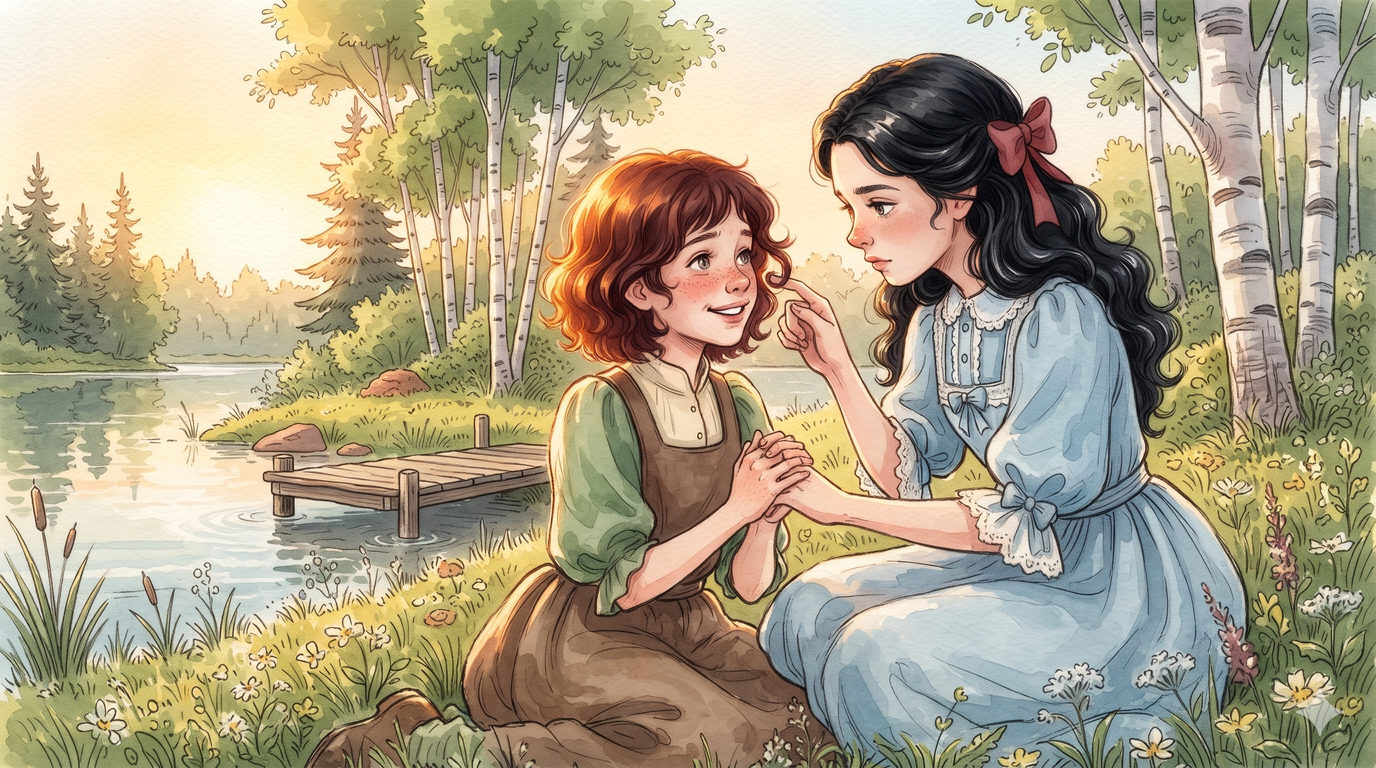
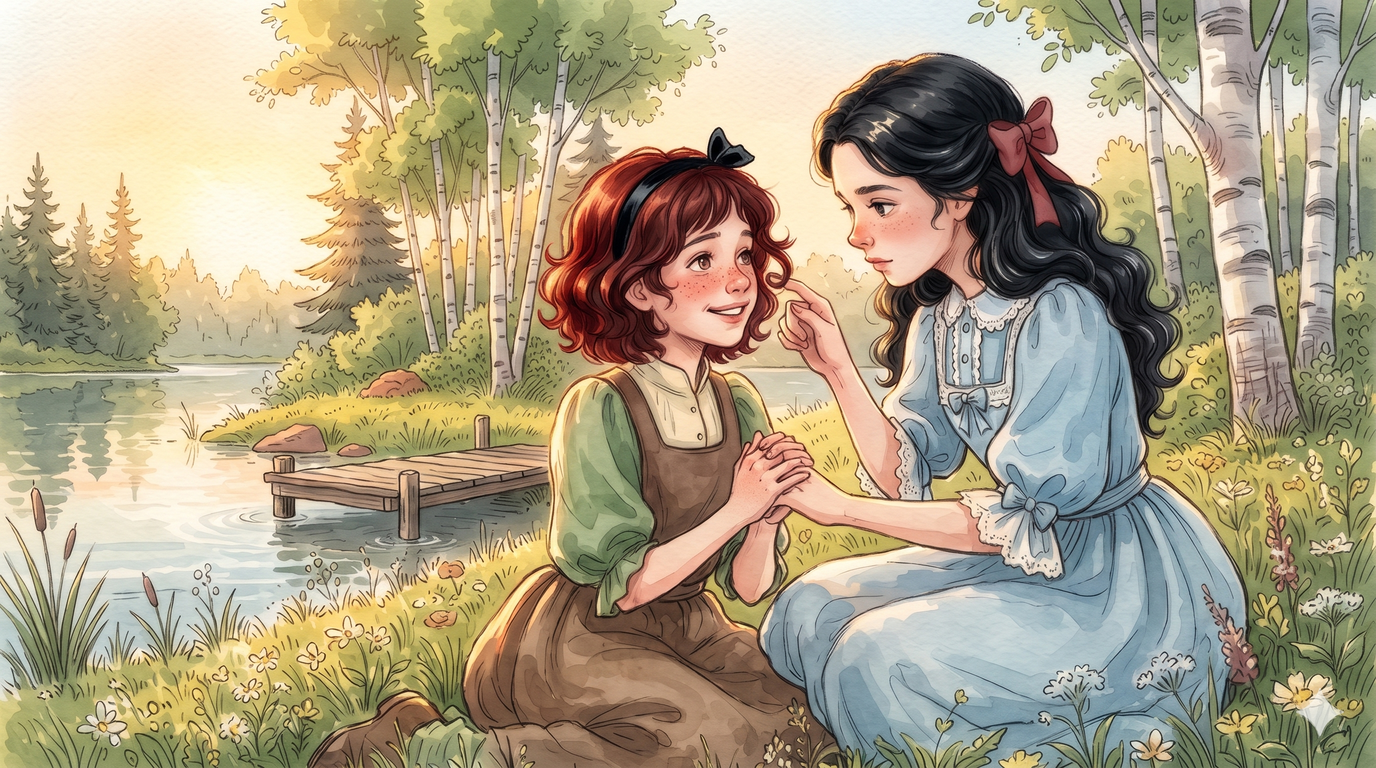
9장 숨은 장면 3장 앤 머리 원작대로(짙은 적갈색 곱슬+검은 리본) 고침, 테스트 윈도우 경로로 정리

diff --git a/sw.js b/sw.js
@@ -1,5 +1,5 @@
 /* 빨강 머리 앤 오프라인 지원: 인터넷이 되면 항상 최신 판을 먼저 받고, 인터넷이 없으면 저장해 둔 판으로 실행합니다. */
-const CACHE = "anne-vn-v79";
+const CACHE = "anne-vn-v80";
 const FILES = ["./", "./index.html", "./manifest.webmanifest", "./icon-192.png", "./icon-512.png", "./icon-maskable-512.png", "./apple-touch-icon.png"];
 self.addEventListener("install", e => {
   e.waitUntil(caches.open(CACHE).then(c => c.addAll(FILES.map(f => new Request(f, {cache: "reload"})))).then(() => self.skipWaiting()));

diff --git a/source/tests/run3.py b/source/tests/run3.py
@@ -1,7 +1,10 @@
+import sys, pathlib; sys.path.insert(0, str(pathlib.Path(__file__).resolve().parents[1] / 'tools'))
+from paths import CHROME, HTML, WORK, uri
+OUT = str(WORK / 'test4') + '/'
 import asyncio, json, sys, os
 CI=int(os.environ.get("CI","2"))
 from playwright.async_api import async_playwright
-F=sys.argv[1] if len(sys.argv)>1 else "file:///home/claude/anne_visual_novel.html"
+F=sys.argv[1] if len(sys.argv)>1 else "http://localhost:8765/index.html"
 SNAP={"canon":4,"imag":3,"hearts":{"matthew":3,"marilla":3,"lynde":2,"diana":3,"barry":1,"gilbert":1},"met":{"matthew":True,"marilla":True,"lynde":True},
  "items":["carpetbag","auburn","narcissi","poem","lock"],"flags":{"castle":True,"poem":True,"quiet":True,"wreath":True,"vow":True,"missSchool":True,"mailbox":True,"factsOnly":True},"names":{"avenue":"기쁨의 하얀 길","pond":"반짝이는 호수","advice":"잘했어","spring":"드라이어드의 샘","together":"소꿉놀이 집 짓기"},"hist":[]}
 async def play(pg, route, tag, shots):
@@ -20,12 +23,12 @@ async def play(pg, route, tag, shots):
     bg = await pg.evaluate("window.__anne.state().bg")
     if shots and bg not in seen:
       seen.add(bg); await pg.wait_for_timeout(1300); await pg.click(".dlg-head"); await pg.wait_for_timeout(300)
-      await pg.screenshot(path=f"/home/claude/test4/c{CI}_{tag}_{bg}.png")
+      await pg.screenshot(path=OUT+f"c{CI}_{tag}_{bg}.png")
     await pg.click(".dlg-head"); await pg.wait_for_timeout(30)
   return await pg.evaluate("window.__anne.state()")
 async def main():
   async with async_playwright() as p:
-    b=await p.chromium.launch(executable_path="/usr/bin/google-chrome")
+    b=await p.chromium.launch(executable_path=CHROME)
     pg=await b.new_page(viewport={"width":1280,"height":800}); errs=[]
     pg.on("pageerror",lambda e: errs.append(str(e)))
     await pg.goto(F); await pg.wait_for_timeout(600)
@@ -34,7 +37,7 @@ async def main():
       st=await play(pg,r,r,r=="imag")
       print(r, st["ending"], st["tally"] if "tally" in st else "", st["items"], st["hearts"], st["names"])
       if r=="bal":
-        await pg.screenshot(path="/home/claude/test4/report.png")
+        await pg.screenshot(path=OUT+"report.png")
     # unresolved templates / missing book ids
     bad = await pg.evaluate("""(()=>{const out=[];const ch=CHAPTERS[%d];const ids=new Set(BOOK[ch.key].paras.map(p=>p[0]));
       ch.nodes.forEach(n=>{(n.bk||[]).forEach(b=>{if(!ids.has(b))out.push('bk '+b)});});return out})()""" % CI)

diff --git a/source/tests/mid_report.py b/source/tests/mid_report.py
@@ -1,3 +1,6 @@
+import sys, pathlib; sys.path.insert(0, str(pathlib.Path(__file__).resolve().parents[1] / 'tools'))
+from paths import CHROME, HTML, WORK, uri
+OUT = str(WORK / 'test4') + '/'
 import asyncio
 from playwright.async_api import async_playwright
 SNAP={"canon":60,"imag":40,"hearts":{"matthew":5,"marilla":4,"diana":5,"barry":2,"gilbert":1,"lynde":2},"met":{"matthew":True,"marilla":True,"diana":True,"barry":True,"gilbert":True,"lynde":True},
@@ -5,7 +8,7 @@ SNAP={"canon":60,"imag":40,"hearts":{"matthew":5,"marilla":4,"diana":5,"barry":2
  "hist":{"ch1":{"ending":"canon","tally":{"canon":4,"imag":1,"bal":1}},"ch2":{"ending":"imag","tally":{"canon":1,"imag":4,"bal":1}},"ch3":{"ending":"bal","tally":{"canon":1,"imag":1,"bal":4}},"ch4":{"ending":"canon","tally":{"canon":4,"imag":1,"bal":1}},"ch5":{"ending":"bal","tally":{"canon":2,"imag":1,"bal":3}}}}
 async def main():
   async with async_playwright() as p:
-    b=await p.chromium.launch(executable_path="/usr/bin/google-chrome")
+    b=await p.chromium.launch(executable_path=CHROME)
     ctx=await b.new_context(viewport={"width":390,"height":844},device_scale_factor=2,is_mobile=True,has_touch=True)
     pg=await ctx.new_page(); errs=[]; pg.on("pageerror",lambda e: errs.append(str(e)))
     await pg.goto("http://localhost:8765/"); await pg.wait_for_timeout(1000)
@@ -18,14 +21,14 @@ async def main():
     await tas.nth(2).fill("다시 친구가 될 것 같아요!\n길버트와는 계속 경쟁할 것 같아요.")
     await pg.wait_for_timeout(500)
     await pg.evaluate("document.querySelector('.mid-q').scrollIntoView()")
-    await pg.screenshot(path="/home/claude/test4/mid_m.png")
+    await pg.screenshot(path=OUT+"mid_m.png")
     await pg.reload(); await pg.wait_for_timeout(1000)
     await pg.evaluate("document.getElementById('stage').hidden=true; document.getElementById('report').hidden=false; window.__anne.mid()")
     await pg.wait_for_timeout(400)
     print("after reload:", await pg.evaluate("[document.getElementById('midName').value, ...[...document.querySelectorAll('.mid-ans')].map(t=>t.value)]"))
     await pg.emulate_media(media="print"); await pg.wait_for_timeout(300)
     await pg.evaluate("document.querySelector('.mid-q').scrollIntoView()")
-    await pg.screenshot(path="/home/claude/test4/mid_print.png")
+    await pg.screenshot(path=OUT+"mid_print.png")
     print("errors", errs)
     await b.close()
 asyncio.run(main())

diff --git a/source/tests/type_icons.py b/source/tests/type_icons.py
@@ -1,0 +1,30 @@
+import sys, pathlib; sys.path.insert(0, str(pathlib.Path(__file__).resolve().parents[1] / 'tools'))
+from paths import CHROME, HTML, WORK, uri
+OUT = str(WORK / 'test4') + '/'
+# 최종 보고서의 '나의 독서 유형' 카드가 세 유형마다 그림 아이콘(end_canon/imag/bal)을 보여 주는지 확인
+import asyncio
+from playwright.async_api import async_playwright
+def snap(t):
+    tally = {"canon":{"canon":5,"imag":1,"bal":0},"imag":{"canon":1,"imag":5,"bal":0},"bal":{"canon":3,"imag":3,"bal":0}}[t]
+    hist = {f"ch{i}":{"ending":t if t!="bal" else ("canon" if i%2 else "imag"),"tally":tally} for i in range(1,11)}
+    return {"canon":50,"imag":50,"hearts":{},"met":{},"items":[],"flags":{},"names":{},"hist":hist}
+async def main():
+  async with async_playwright() as p:
+    b=await p.chromium.launch(executable_path=CHROME)
+    pg=await b.new_page(viewport={"width":1100,"height":900}); errs=[]
+    pg.on("pageerror",lambda e: errs.append(str(e)))
+    await pg.goto("http://localhost:8765/index.html"); await pg.wait_for_timeout(1000)
+    bad=[]
+    for t in ["canon","imag","bal"]:
+      await pg.evaluate("s=>window.__anne.start(9,s)", snap(t)); await pg.wait_for_timeout(800)
+      await pg.evaluate("document.getElementById('stage').hidden=true; document.getElementById('report').hidden=false; window.__anne.mid()")
+      await pg.wait_for_timeout(800)
+      info=await pg.evaluate("(()=>{const c=document.querySelector('.type-card'); if(!c) return null; const i=c.querySelector('.type-emoji img'); return {name:c.querySelector('h3').innerText, img:!!i, ok:i?(i.complete&&i.naturalWidth>0):false}})()")
+      print(t, info, flush=True)
+      if not info or not info["ok"]: bad.append(t)
+      card=pg.locator(".type-card")
+      if await card.count(): await card.first.screenshot(path=OUT+f"type_{t}.png")
+    print("errors", errs)
+    await b.close()
+    if bad or errs: sys.exit(1)
+asyncio.run(main())

diff --git a/source/tests/run_all.py b/source/tests/run_all.py
@@ -1,0 +1,32 @@
+# 저장소(사이트)를 http://localhost:8765 로 띄우고 test4 의 테스트를 차례로 돌린다.
+# 사용법: py -3 test4/run_all.py            (전부)
+#         py -3 test4/run_all.py err gate   (이름 일부만 골라서)
+import sys, os, subprocess, threading, functools, pathlib, time
+from http.server import ThreadingHTTPServer, SimpleHTTPRequestHandler
+HERE = pathlib.Path(__file__).resolve().parent
+sys.path.insert(0, str(HERE.parent / 'tools'))
+from paths import REPO
+sys.stdout.reconfigure(encoding='utf-8', errors='replace')
+
+class Quiet(SimpleHTTPRequestHandler):
+    def log_message(self, *a): pass
+srv = ThreadingHTTPServer(('127.0.0.1', 8765), functools.partial(Quiet, directory=str(REPO)))
+threading.Thread(target=srv.serve_forever, daemon=True).start()
+
+pick = sys.argv[1:]
+tests = sorted(p for p in HERE.glob('*.py') if p.name != 'run_all.py' and (not pick or any(k in p.stem for k in pick)))
+env = dict(os.environ, PYTHONUTF8='1', PYTHONIOENCODING='utf-8')
+fails = []
+for t in tests:
+    t0 = time.time()
+    try:
+        r = subprocess.run([sys.executable, str(t)], cwd=str(HERE.parent), env=env, capture_output=True, text=True, encoding='utf-8', errors='replace', timeout=900)
+        ok, out = r.returncode == 0, (r.stdout + r.stderr).strip()
+    except subprocess.TimeoutExpired:
+        ok, out = False, '시간 초과(15분)'
+    if not ok: fails.append(t.stem)
+    tail = '\n    '.join(out.splitlines()[-6:])
+    print(f"{'OK ' if ok else 'XX '} {t.stem} ({time.time()-t0:.0f}s)\n    {tail}", flush=True)
+srv.shutdown()
+print('\n실패:', ', '.join(fails) if fails else '없음')
+sys.exit(1 if fails else 0)

diff --git a/source/tests/offline_images.py b/source/tests/offline_images.py
@@ -1,8 +1,11 @@
+import sys, pathlib; sys.path.insert(0, str(pathlib.Path(__file__).resolve().parents[1] / 'tools'))
+from paths import CHROME, HTML, WORK, uri
+OUT = str(WORK / 'test4') + '/'
 import asyncio
 from playwright.async_api import async_playwright
 async def main():
   async with async_playwright() as p:
-    b=await p.chromium.launch(executable_path="/usr/bin/google-chrome")
+    b=await p.chromium.launch(executable_path=CHROME)
     ctx=await b.new_context(service_workers="allow", viewport={"width":390,"height":844}, device_scale_factor=2, is_mobile=True, has_touch=True)
     pg=await ctx.new_page(); errs=[]; pg.on("pageerror",lambda e: errs.append(str(e)))
     await pg.goto("http://localhost:8765/"); await pg.wait_for_timeout(1500)
@@ -11,7 +14,7 @@ async def main():
     await pg.wait_for_timeout(1200)
     info=await pg.evaluate("[...document.querySelectorAll('#viewer img')].map(i=>[i.src.split('/').pop(), i.naturalWidth])")
     print("imgs", info)
-    await pg.screenshot(path="/home/claude/test4/f_ch1.png")
+    await pg.screenshot(path=OUT+"f_ch1.png")
     print("warming…"); await pg.wait_for_timeout(25000)
     await ctx.set_offline(True)
     await pg.reload(); await pg.wait_for_timeout(1500)
@@ -20,7 +23,7 @@ async def main():
     await pg.wait_for_timeout(1500)
     info=await pg.evaluate("[...document.querySelectorAll('#viewer img')].map(i=>[i.src.split('/').pop(), i.naturalWidth])")
     print("offline ch4 imgs", info)
-    await pg.screenshot(path="/home/claude/test4/f_ch4_off.png")
+    await pg.screenshot(path=OUT+"f_ch4_off.png")
     print("errors", errs)
     await b.close()
 asyncio.run(main())

diff --git a/source/tests/file.py b/source/tests/file.py
@@ -1,14 +1,20 @@
+import sys, pathlib; sys.path.insert(0, str(pathlib.Path(__file__).resolve().parents[1] / 'tools'))
+from paths import CHROME, HTML, WORK, uri
+OUT = str(WORK / 'test4') + '/'
 import asyncio
 from playwright.async_api import async_playwright
+# 오프라인 압축 파일용 폴더(out/off/빨강머리앤)를 만든 뒤에만 의미 있는 테스트
+if not (WORK/"out"/"off"/"빨강머리앤"/"index.html").exists():
+  print("건너뜀: 오프라인 폴더가 아직 없음"); sys.exit(0)
 async def main():
   async with async_playwright() as p:
-    b=await p.chromium.launch(executable_path="/usr/bin/google-chrome")
+    b=await p.chromium.launch(executable_path=CHROME)
     for u in ["index.html","easy/index.html"]:
       pg=await b.new_page(viewport={"width":1280,"height":800}); errs=[]; pg.on("pageerror",lambda e:errs.append(str(e)))
-      await pg.goto("file:///home/claude/out/off/빨강머리앤/"+u); await pg.wait_for_timeout(1500)
+      await pg.goto(uri(WORK/"out"/"off"/"빨강머리앤")+"/"+u); await pg.wait_for_timeout(1500)
       await pg.click("#btnStart"); await pg.wait_for_timeout(3000)
       ok=await pg.evaluate("Array.from(document.images).filter(i=>i.src&&i.complete&&i.naturalWidth>0).length")
       print(u,"imgs",ok,"bgm",await pg.evaluate("JSON.stringify(window.__anne.bgm())"),errs)
-      await pg.screenshot(path="/home/claude/test4/file_"+u.replace('/','_')+".png")
+      await pg.screenshot(path=OUT+"file_"+u.replace('/','_')+".png")
     await b.close()
 asyncio.run(main())

diff --git a/source/tests/full_1to5.py b/source/tests/full_1to5.py
@@ -1,3 +1,6 @@
+import sys, pathlib; sys.path.insert(0, str(pathlib.Path(__file__).resolve().parents[1] / 'tools'))
+from paths import CHROME, HTML, WORK, uri
+OUT = str(WORK / 'test4') + '/'
 import asyncio, sys
 from playwright.async_api import async_playwright
 ROUTES=["canon","imag","bal","canon","bal"]
@@ -16,7 +19,7 @@ async def play(pg, route):
     await pg.click(".dlg-head"); await pg.wait_for_timeout(25)
 async def main():
   async with async_playwright() as p:
-    b=await p.chromium.launch(executable_path="/usr/bin/google-chrome")
+    b=await p.chromium.launch(executable_path=CHROME)
     pg=await b.new_page(viewport={"width":1100,"height":900}); errs=[]
     pg.on("pageerror",lambda e: errs.append(str(e)))
     await pg.goto("http://localhost:8765/"); await pg.wait_for_timeout(1200)
@@ -26,11 +29,11 @@ async def main():
       st=await pg.evaluate("window.__anne.state()")
       print(i+1, r, st["ending"], flush=True)
       if i<4: await pg.click("#rpNext", timeout=5000); await pg.wait_for_timeout(1800)
-    await pg.screenshot(path="/home/claude/test4/r5.png")
+    await pg.screenshot(path=OUT+"r5.png")
     await pg.click("#rpMid"); await pg.wait_for_timeout(800)
     h=await pg.evaluate("document.getElementById('report').scrollHeight")
     await pg.set_viewport_size({"width":1100,"height":h+40}); await pg.wait_for_timeout(500)
-    await pg.screenshot(path="/home/claude/test4/mid.png")
+    await pg.screenshot(path=OUT+"mid.png")
     print("errors", errs)
     await b.close()
 asyncio.run(main())

diff --git a/source/tests/gate.py b/source/tests/gate.py
@@ -1,3 +1,6 @@
+import sys, pathlib; sys.path.insert(0, str(pathlib.Path(__file__).resolve().parents[1] / 'tools'))
+from paths import CHROME, HTML, WORK, uri
+OUT = str(WORK / 'test4') + '/'
 import asyncio,json,sys
 from playwright.async_api import async_playwright
 async def run(pg,ci,hearts):
@@ -14,9 +17,9 @@ async def run(pg,ci,hearts):
     return seen
 async def main():
   async with async_playwright() as p:
-    b=await p.chromium.launch(executable_path="/usr/bin/google-chrome"); pg=await b.new_page(viewport={"width":1280,"height":800}); errs=[]
+    b=await p.chromium.launch(executable_path=CHROME); pg=await b.new_page(viewport={"width":1280,"height":800}); errs=[]
     pg.on("pageerror",lambda e:errs.append(str(e)))
-    await pg.goto("file:///home/claude/anne_visual_novel.html"); await pg.wait_for_timeout(1000)
+    await pg.goto("http://localhost:8765/index.html"); await pg.wait_for_timeout(1000)
     for ci in [4,8,9]:
       hi=await run(pg,ci,{"matthew":5,"marilla":5,"diana":5,"lynde":3,"allan":3,"gilbert":3,"barry":2})
       lo=await run(pg,ci,{"matthew":1,"marilla":1,"diana":1,"lynde":0,"allan":0,"gilbert":0,"barry":0})

diff --git a/source/tests/pick.py b/source/tests/pick.py
@@ -1,11 +1,14 @@
+import sys, pathlib; sys.path.insert(0, str(pathlib.Path(__file__).resolve().parents[1] / 'tools'))
+from paths import CHROME, HTML, WORK, uri
+OUT = str(WORK / 'test4') + '/'
 import asyncio
 from playwright.async_api import async_playwright
 async def main():
   async with async_playwright() as p:
-    b=await p.chromium.launch(executable_path="/usr/bin/google-chrome"); errs=[]
+    b=await p.chromium.launch(executable_path=CHROME); errs=[]
     for vp,name in [({"width":1280,"height":800},"pc"),({"width":390,"height":844},"phone")]:
       pg=await b.new_page(viewport=vp); pg.on("pageerror",lambda e:errs.append(str(e)))
-      await pg.goto("file:///home/claude/anne_visual_novel.html"); await pg.wait_for_timeout(1200)
+      await pg.goto("http://localhost:8765/index.html"); await pg.wait_for_timeout(1200)
       await pg.click("#coverChapters"); await pg.wait_for_timeout(500)
       await pg.screenshot(path=f"test4/pick_{name}.png")
       await pg.click(".chgrid button[data-ci='7']"); await pg.wait_for_timeout(1500)

diff --git a/source/tests/easy.py b/source/tests/easy.py
@@ -1,12 +1,15 @@
+import sys, pathlib; sys.path.insert(0, str(pathlib.Path(__file__).resolve().parents[1] / 'tools'))
+from paths import CHROME, HTML, WORK, uri
+OUT = str(WORK / 'test4') + '/'
 import asyncio,sys
 from playwright.async_api import async_playwright
 ROUTE=sys.argv[1] if len(sys.argv)>1 else "canon"; CI=int(sys.argv[2]) if len(sys.argv)>2 else 0
 async def main():
   async with async_playwright() as p:
-    b=await p.chromium.launch(executable_path="/usr/bin/google-chrome")
+    b=await p.chromium.launch(executable_path=CHROME)
     vp={"width":1280,"height":800} if ROUTE!="phone" else {"width":390,"height":844}
     pg=await b.new_page(viewport=vp); errs=[]; pg.on("pageerror",lambda e:errs.append(str(e)))
-    await pg.goto("file:///home/claude/anne_visual_novel.html?easy"); await pg.wait_for_timeout(1200)
+    await pg.goto("http://localhost:8765/easy/"); await pg.wait_for_timeout(1200)
     await pg.evaluate(f"window.__anne.start({CI},null)"); await pg.wait_for_timeout(1500)
     shots=0
     for step in range(400):

diff --git a/source/tests/cover.py b/source/tests/cover.py
@@ -1,11 +1,14 @@
+import sys, pathlib; sys.path.insert(0, str(pathlib.Path(__file__).resolve().parents[1] / 'tools'))
+from paths import CHROME, HTML, WORK, uri
+OUT = str(WORK / 'test4') + '/'
 import asyncio
 from playwright.async_api import async_playwright
 async def main():
   async with async_playwright() as p:
-    b=await p.chromium.launch(executable_path="/usr/bin/google-chrome")
+    b=await p.chromium.launch(executable_path=CHROME)
     for q,name in [("","n"),("?easy","e")]:
       pg=await b.new_page(viewport={"width":390,"height":844}); errs=[]; pg.on("pageerror",lambda e:errs.append(str(e)))
-      await pg.goto("file:///home/claude/anne_visual_novel.html"+q); await pg.wait_for_timeout(1000)
+      await pg.goto("http://localhost:8765/index.html"+q); await pg.wait_for_timeout(1000)
       await pg.evaluate("window.__anne.start(0,null)"); await pg.wait_for_timeout(800)
       for i in range(12): await pg.click("#dialog"); await pg.wait_for_timeout(80)
       await pg.reload(); await pg.wait_for_timeout(1800)
